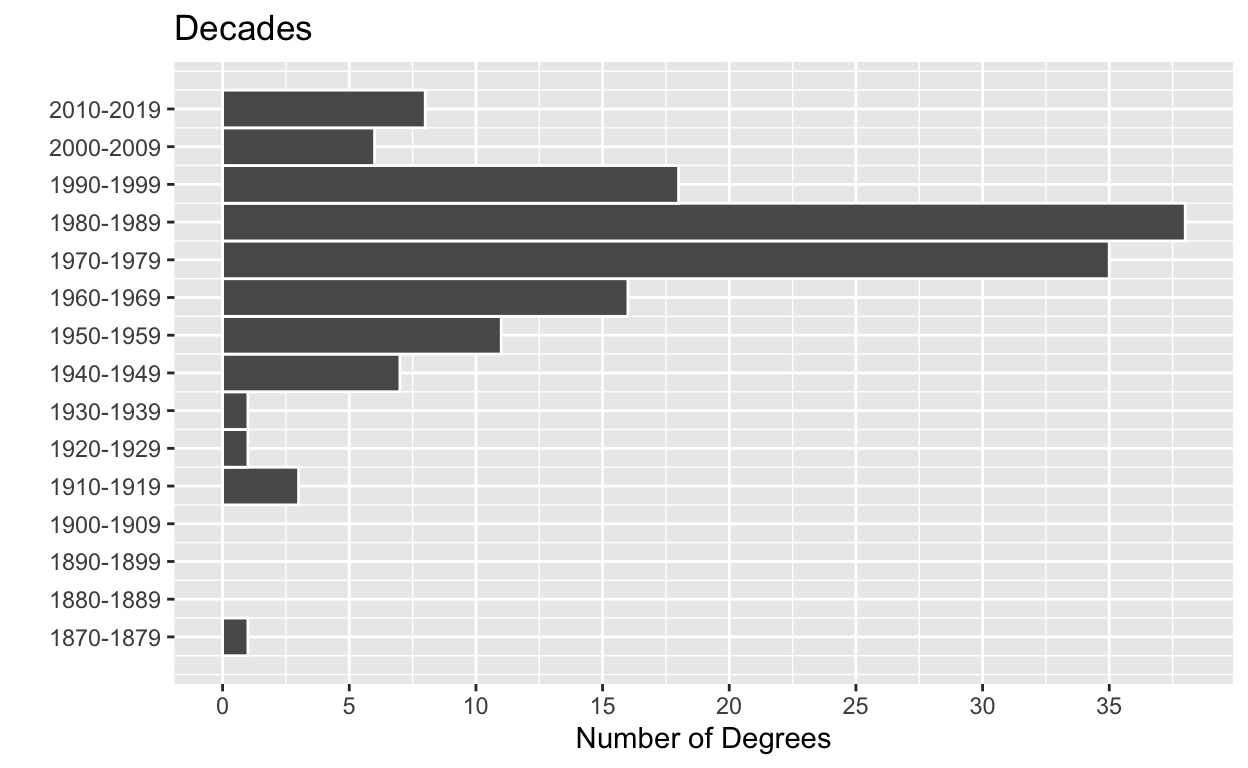
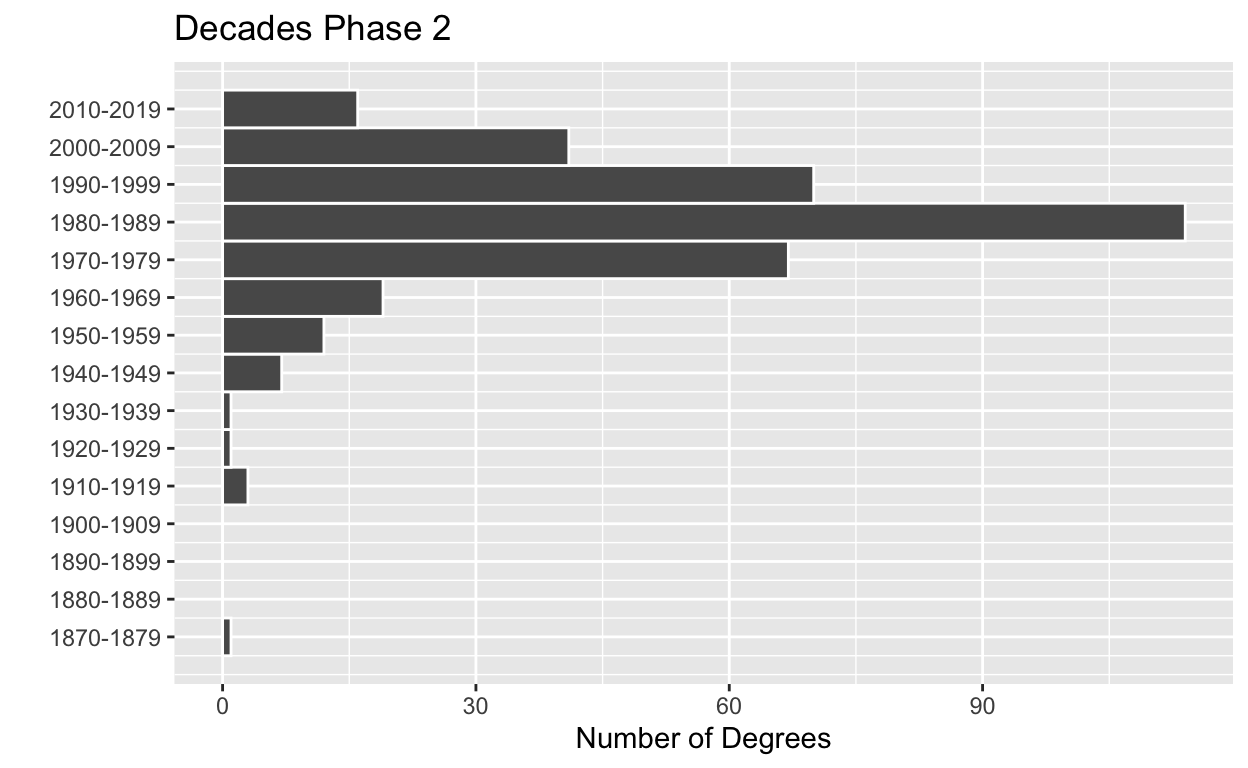
new visuals, working yml

diff --git a/docs/index.html b/docs/index.html
@@ -85,29 +85,26 @@ code span.wa { color: #5e5e5e; font-style: italic; } /* Warning */
 </style>
 
   <!--radix_placeholder_meta_tags-->
-  <title>Notable Alumni Reports: Phase 1 Report</title>
+  <title>Notable Alumni Reports: Phase 2 Report</title>
 
-  <meta property="description" itemprop="description" content="This may be easier to view than a PDF, because of the figures."/>
 
 
 
   <!--  https://developers.facebook.com/docs/sharing/webmasters#markup -->
-  <meta property="og:title" content="Notable Alumni Reports: Phase 1 Report"/>
+  <meta property="og:title" content="Notable Alumni Reports: Phase 2 Report"/>
   <meta property="og:type" content="article"/>
-  <meta property="og:description" content="This may be easier to view than a PDF, because of the figures."/>
   <meta property="og:locale" content="en_US"/>
   <meta property="og:site_name" content="Notable Alumni Reports"/>
 
   <!--  https://dev.twitter.com/cards/types/summary -->
   <meta property="twitter:card" content="summary"/>
-  <meta property="twitter:title" content="Notable Alumni Reports: Phase 1 Report"/>
-  <meta property="twitter:description" content="This may be easier to view than a PDF, because of the figures."/>
+  <meta property="twitter:title" content="Notable Alumni Reports: Phase 2 Report"/>
 
   <!--/radix_placeholder_meta_tags-->
   <!--radix_placeholder_rmarkdown_metadata-->
 
   <script type="text/json" id="radix-rmarkdown-metadata">
-  {"type":"list","attributes":{"names":{"type":"character","attributes":{},"value":["title","description","site"]}},"value":[{"type":"character","attributes":{},"value":["Phase 1 Report"]},{"type":"character","attributes":{},"value":["This may be easier to view than a PDF, because of the figures."]},{"type":"character","attributes":{},"value":["distill::distill_website"]}]}
+  {"type":"list","attributes":{"names":{"type":"character","attributes":{},"value":["title","site"]}},"value":[{"type":"character","attributes":{},"value":["Phase 2 Report"]},{"type":"character","attributes":{},"value":["distill::distill_website"]}]}
   </script>
   <!--/radix_placeholder_rmarkdown_metadata-->
   <!--radix_placeholder_navigation_in_header-->
@@ -2052,7 +2049,7 @@ code span.wa { color: #5e5e5e; font-style: italic; } /* Warning */
 <!--radix_placeholder_front_matter-->
 
 <script id="distill-front-matter" type="text/json">
-{"title":"Phase 1 Report","description":"This may be easier to view than a PDF, because of the figures.","authors":[]}
+{"title":"Phase 2 Report","authors":[]}
 </script>
 
 <!--/radix_placeholder_front_matter-->
@@ -2063,7 +2060,17 @@ code span.wa { color: #5e5e5e; font-style: italic; } /* Warning */
 <a href="index.html" class="title">Notable Alumni Reports</a>
 </div>
 <div class="nav-right">
-<a href="index.html">Phase 1 Report</a>
+<div class="nav-dropdown">
+<button class="nav-dropbtn">
+Reports
+ 
+<span class="down-arrow">&#x25BE;</span>
+</button>
+<div class="nav-dropdown-content">
+<a href="phase1.html">Phase 1 Report</a>
+<a href="index.html">Phase 2 Report</a>
+</div>
+</div>
 <a href="javascript:void(0);" class="nav-toggle">&#9776;</a>
 </div>
 </nav>
@@ -2073,10 +2080,10 @@ code span.wa { color: #5e5e5e; font-style: italic; } /* Warning */
 <!--/radix_placeholder_site_before_body-->
 
 <div class="d-title">
-<h1>Phase 1 Report</h1>
+<h1>Phase 2 Report</h1>
 <!--radix_placeholder_categories-->
 <!--/radix_placeholder_categories-->
-<p>This may be easier to view than a PDF, because of the figures.</p>
+
 </div>
 
 
@@ -2085,71 +2092,84 @@ code span.wa { color: #5e5e5e; font-style: italic; } /* Warning */
 
 </div>
 <h1 id="gender">Gender</h1>
-<p>89 entries are Male, 52 are Female, and 1, Jack F. Trope, is likely male but this has not been included because of the lack of a source.</p>
+<p>157 entries are Male, 190 are Female, and 1, Jack F. Trope, is likely male but this has not been included because of the lack of a source.</p>
 <div class="layout-chunk" data-layout="l-body">
 <p><img src="index_files/figure-html5/gender-hist-1.png" width="624" /></p>
 </div>
 <h1 id="decades">Decades</h1>
-<p>As expected, the vast majority of entries are from recent decades. The ’70s and ’80s have the most degrees. The ’50s and ’60s are comparatively lacking. It may be natural that the most recent graduates are also lacking.</p>
+<p>Compared to Phase 1, the alumni in the list have bcome more recent. Graduates from the ’80s are now far greater than those from the ’70s, and graduates from the last two decades now outnumber thos from the ’50s and ’60s.</p>
 <div class="layout-chunk" data-layout="l-body">
-<p><img src="index_files/figure-html5/decade-hist-1.png" width="624" /></p>
+<p><img src="index_files/figure-html5/decade-hist-1.png" width="624" /><img src="index_files/figure-html5/decade-hist-2.png" width="624" /></p>
 </div>
-<p>As expected, gender balance becomes more equal in later decades. It is notable, however, that females significantly outnumber males among most recent graduates.</p>
+<p>In Phase 1, women made up less thn 30% of graduates in the ’70s and ’80s. Women now slightly outnumber men in the ’80s and are slightly fewer than men in the ’70s.</p>
 <div class="layout-chunk" data-layout="l-body">
 <p><img src="index_files/figure-html5/decade-gender-1.png" width="624" /></p>
 </div>
 <h1 id="races">Races</h1>
-<p>Among all the entries, blacks outnumber other races. Among only the Micro Museum list, whites are the the greatest in number, forming about 40%.</p>
+<p>Among all the entries, whites are the greatest, forming a plurality slightly over 30%. Blacks and Hispanics are the most represented minorities, forming slightly more and less than 25% respectively.</p>
+<p>Compared to all the entries in Phase 1, the biggest change is that blacks are no longer near the majority. Also, Asians and not Hispanics were the second most represented minority, though the percentage of Asians has not changed by much between both phases.</p>
+<p>Compared to only those entries from the Micro Museum list, there are more minorities in these entires.</p>
 <div class="layout-chunk" data-layout="l-body">
 <p><img src="index_files/figure-html5/race-hists-1.png" width="624" /><img src="index_files/figure-html5/race-hists-2.png" width="624" /></p>
 </div>
-<p>Among all races, males outnumber females. The only exceptions are the races represented by a single member, American Indians and Australian Aboriginals.</p>
+<p>Among all races, except Jews and Hispanics, women outnumber men. The opposite was generally true in the Phase 1. The disparity between men and women is greatest among whites.</p>
 <div class="layout-chunk" data-layout="l-body">
 <p><img src="index_files/figure-html5/race-gender-1.png" width="624" /></p>
 </div>
 <h1 id="countries">Countries</h1>
 <p>In the Airtable, multiple countries may be listed for one entry. These include places where people are involved or born, from what I gathered from a quick reading of one source, usually Wikipedia. These countries are generally in order of precedence. The first, and so primary, country for each entry is used here.</p>
-<p>As expected, the vast majority of entries are based in the U.S. Asian countries make up the the majority of foreign locations.</p>
+<p>An even greater majority of entries are based in the U.S in this phase. Asian countries remain the most of those outside the U.S. With the exception of Australia, there is at least one entry based in every continent.</p>
 <div class="layout-chunk" data-layout="l-body">
 <p><img src="index_files/figure-html5/country-hist-1.png" width="624" /></p>
 </div>
 <h1 id="parties">Parties</h1>
-<p>40 entries have at least one party. If a person has more than one party, each is counted here. For the most part, I listed parties for those who had one displayed on Wikipedia, i.e. primarily elected officials.</p>
-<p>Democrats are the most represented party. Several of the parties listed below are for foreign countries.</p>
+<p>If a person has more than one party, each is counted here. For the most part, I listed parties for those who had one displayed on Wikipedia, i.e. primarily elected officials.</p>
+<p>The number of party members increased less than proportionally to the total number of entries, growing from 40 to 51, which may be due in part to the fact that I did not use Wikipedia as a source for all these entries. Democrats from a greater majority than they do last time. Several of the parties listed below are for foreign countries.</p>
 <div class="layout-chunk" data-layout="l-body">
 <p><img src="index_files/figure-html5/party-hist-1.png" width="624" /></p>
+<pre><code># A tibble: 51 x 8
+   name    degree   year   category       race    gender party country
+   &lt;chr&gt;   &lt;chr&gt;    &lt;chr&gt;  &lt;chr&gt;          &lt;chr&gt;   &lt;chr&gt;  &lt;chr&gt; &lt;chr&gt;  
+ 1 Casper… LL.B.    1966   Corporate / B… White   Male   R     USA    
+ 2 Kuehl,… J.D.     1978   Government     White   Female D     USA    
+ 3 Estric… J.D.     1977   Government,La… White   Female D     USA    
+ 4 Obama,… J.D.     1991   Government     Black … Male   D     USA    
+ 5 Obama,… J.D.     1988   Government     Black   Female D     USA    
+ 6 Sewell… J.D.     1992   Government     Black   Female D     USA    
+ 7 Robins… LL.M.    1968   Government     White   Female Inde… Ireland
+ 8 Nader,… LL.B.    1958   Government,Ac… White … Male   Gree… USA    
+ 9 Hauser… attende… 1955-… Public Intere… White … Female R     USA    
+10 Lynch,… J.D.     1984   Government,Co… Black   Male   D     USA    
+# … with 41 more rows</code></pre>
 </div>
-<p>Democrats are nearly equal in gender. Compared to the gender ratio among all the entries, women are overrepresented among Democrats and underrepresented among Republicans.</p>
+<p>Men are the majority of politicians. Men now form a slightly greater majority among Democrats than in Phase 1.</p>
 <div class="layout-chunk" data-layout="l-body">
 <p><img src="index_files/figure-html5/party-gender-1.png" width="624" /></p>
 </div>
-<p>Both Republicans and Democrats have comparable percentages of racial minorties, though the particular minorities differ.</p>
+<p>Minorities now make up the majority of Democrats among the entries.</p>
 <div class="layout-chunk" data-layout="l-body">
 <p><img src="index_files/figure-html5/party-race-1.png" width="624" /></p>
 </div>
 <h1 id="roles">Roles</h1>
-<p>The roles now are very rough. They have been gathered from a quick reading of one source, usually Wikipedia. There are several grey areas: the intersection of Politics, Public Interest Law, and Activist; most lawyers have at least some experience in a firm, but they do not now all have the “Law Firm” role.</p>
-<p>Among all the entries, judges outnumber other roles. Among only the Micro Museum list, “politicians” are the the greatest in number. The “Business” and “Law Firm” roles are comparatively lacking.</p>
+<p>We made changes to how we defined roles in this Phase. We replaced the Politics category with Government, with includes both elected politicians and unelected officials, e.g. cabinent members. The category also includes members of organizations such as the U.N., though such also recieve the new role “International”. The category still excludes judges, who remain in a separate “Judiciary” category.</p>
+<p>“Public Interest Law” was rennamed to “Public Interest / Nonprofit Legal Services” and now includes those who practice law for the public interest and members of think tanks and other NGOS.</p>
+<p>Authors, musicians,journalists, and commentators have all been included into one new role, “Arts / Media / Entertainment.” Media executives also recieve this role, in addition to “Corporate/Business.”</p>
+<p>Among all the entries, government is the most frequently occuring role, slightly over 30% of all roles. Corporate/Business is now as popular a role as Judges, a big increase in the former and decrease in the latter compared to Phase 1. Law Firm and Academia/Education remain smaller, but have increased more or less proportionally.</p>
 <div class="layout-chunk" data-layout="l-body">
-<p><img src="index_files/figure-html5/role-hists-1.png" width="624" /><img src="index_files/figure-html5/role-hists-2.png" width="624" /></p>
+<p><img src="index_files/figure-html5/role-hists-1.png" width="624" /></p>
 </div>
-<p>Several roles are around 60% male, which is the proportion of males among all the entries.</p>
+<p>In most roles women outnumber men, most so in Academia / Education and International. Among Law Firm, Judiciary, and Activist, men are slightly more or as many. Philanthropist is a small category which includes only men.</p>
 <div class="layout-chunk" data-layout="l-body">
 <p><img src="index_files/figure-html5/role-gender-1.png" width="624" /></p>
 </div>
 <div class="layout-chunk" data-layout="l-body">
-<p><img src="index_files/figure-html5/role-race-1.png" width="624" /></p>
+<p><img src="index_files/figure-html5/role-race-1.png" width="624" /><img src="index_files/figure-html5/role-race-2.png" width="624" /></p>
 </div>
 <h1 id="degrees">Degrees</h1>
-<p>As expected, the majority of degrees earned are J.Ds.</p>
 <div class="layout-chunk" data-layout="l-body">
 <p><img src="index_files/figure-html5/degree-hist-1.png" width="624" /></p>
 </div>
-<p>There is some but not much overlap between when LL.Bs and J.Ds are earned. No LL.Bs are earned after the ’60s and a few J.Ds are held by those who graduated even as early as the ’40s.</p>
-<div class="layout-chunk" data-layout="l-body">
-<p><img src="index_files/figure-html5/degree-decade-1.png" width="624" /></p>
-</div>
-<div class="sourceCode" id="cb1"><pre class="sourceCode r distill-force-highlighting-css"><code class="sourceCode r"></code></pre></div>
+<div class="sourceCode" id="cb2"><pre class="sourceCode r distill-force-highlighting-css"><code class="sourceCode r"></code></pre></div>
 <!--radix_placeholder_article_footer-->
 <!--/radix_placeholder_article_footer-->
 </div>

diff --git a/docs/phase2.html b/docs/phase2.html
@@ -85,29 +85,26 @@ code span.wa { color: #5e5e5e; font-style: italic; } /* Warning */
 </style>
 
   <!--radix_placeholder_meta_tags-->
-  <title>Notable Alumni Reports: Phase 1 Report</title>
+  <title>Notable Alumni Reports: Phase 2 Report</title>
 
-  <meta property="description" itemprop="description" content="This may be easier to view than a PDF, because of the figures."/>
 
 
 
   <!--  https://developers.facebook.com/docs/sharing/webmasters#markup -->
-  <meta property="og:title" content="Notable Alumni Reports: Phase 1 Report"/>
+  <meta property="og:title" content="Notable Alumni Reports: Phase 2 Report"/>
   <meta property="og:type" content="article"/>
-  <meta property="og:description" content="This may be easier to view than a PDF, because of the figures."/>
   <meta property="og:locale" content="en_US"/>
   <meta property="og:site_name" content="Notable Alumni Reports"/>
 
   <!--  https://dev.twitter.com/cards/types/summary -->
   <meta property="twitter:card" content="summary"/>
-  <meta property="twitter:title" content="Notable Alumni Reports: Phase 1 Report"/>
-  <meta property="twitter:description" content="This may be easier to view than a PDF, because of the figures."/>
+  <meta property="twitter:title" content="Notable Alumni Reports: Phase 2 Report"/>
 
   <!--/radix_placeholder_meta_tags-->
   <!--radix_placeholder_rmarkdown_metadata-->
 
   <script type="text/json" id="radix-rmarkdown-metadata">
-  {"type":"list","attributes":{"names":{"type":"character","attributes":{},"value":["title","description","site"]}},"value":[{"type":"character","attributes":{},"value":["Phase 1 Report"]},{"type":"character","attributes":{},"value":["This may be easier to view than a PDF, because of the figures."]},{"type":"character","attributes":{},"value":["distill::distill_website"]}]}
+  {"type":"list","attributes":{"names":{"type":"character","attributes":{},"value":["title","site"]}},"value":[{"type":"character","attributes":{},"value":["Phase 2 Report"]},{"type":"character","attributes":{},"value":["distill::distill_website"]}]}
   </script>
   <!--/radix_placeholder_rmarkdown_metadata-->
   <!--radix_placeholder_navigation_in_header-->
@@ -2052,7 +2049,7 @@ code span.wa { color: #5e5e5e; font-style: italic; } /* Warning */
 <!--radix_placeholder_front_matter-->
 
 <script id="distill-front-matter" type="text/json">
-{"title":"Phase 1 Report","description":"This may be easier to view than a PDF, because of the figures.","authors":[]}
+{"title":"Phase 2 Report","authors":[]}
 </script>
 
 <!--/radix_placeholder_front_matter-->
@@ -2083,10 +2080,10 @@ Reports
 <!--/radix_placeholder_site_before_body-->
 
 <div class="d-title">
-<h1>Phase 1 Report</h1>
+<h1>Phase 2 Report</h1>
 <!--radix_placeholder_categories-->
 <!--/radix_placeholder_categories-->
-<p>This may be easier to view than a PDF, because of the figures.</p>
+
 </div>
 
 
@@ -2095,69 +2092,68 @@ Reports
 
 </div>
 <h1 id="gender">Gender</h1>
-<p>89 entries are Male, 52 are Female, and 1, Jack F. Trope, is likely male but this has not been included because of the lack of a source.</p>
+<p>157 entries are Male, 190 are Female, and 1, Jack F. Trope, is likely male but this has not been included because of the lack of a source.</p>
 <div class="layout-chunk" data-layout="l-body">
-<p><img src="phase1_files/figure-html5/gender-hist-1.png" width="624" /></p>
+<p><img src="phase2_files/figure-html5/gender-hist-1.png" width="624" /></p>
 </div>
 <h1 id="decades">Decades</h1>
-<p>As expected, the vast majority of entries are from recent decades. The ’70s and ’80s have the most degrees. The ’50s and ’60s are comparatively lacking. It may be natural that the most recent graduates are also lacking.</p>
-<div class="layout-chunk" data-layout="l-body">
-<p><img src="phase1_files/figure-html5/decade-hist-1.png" width="624" /></p>
+<p>Compared to Phase 1, the alumni in the list have bcome more recent. Graduates from the ’80s are now far greater than those from the ’70s, and graduates from the last two decades now outnumber thos from the ’50s and ’60s.</p>
+<div class="layout-chunk" data-layout="l-body-outset">
+<p><img src="phase2_files/figure-html5/decade-hist-1.png" width="768" /><img src="phase2_files/figure-html5/decade-hist-2.png" width="768" /></p>
 </div>
-<p>As expected, gender balance becomes more equal in later decades. It is notable, however, that females significantly outnumber males among most recent graduates.</p>
+<p>In Phase 1, women made up less thn 30% of graduates in the ’70s and ’80s. Women now slightly outnumber men in the ’80s and are slightly fewer than men in the ’70s.</p>
 <div class="layout-chunk" data-layout="l-body">
-<p><img src="phase1_files/figure-html5/decade-gender-1.png" width="624" /></p>
+<p><img src="phase2_files/figure-html5/decade-gender-1.png" width="624" /></p>
 </div>
 <h1 id="races">Races</h1>
-<p>Among all the entries, blacks outnumber other races. Among only the Micro Museum list, whites are the the greatest in number, forming about 40%.</p>
+<p>Among all the entries, whites are the greatest, forming a plurality slightly over 30%. Blacks and Hispanics are the most represented minorities, forming slightly more and less than 25% respectively.</p>
+<p>Compared to all the entries in Phase 1, the biggest change is that blacks are no longer near the majority. Also, Asians and not Hispanics were the second most represented minority, though the percentage of Asians has not changed by much between both phases.</p>
+<p>Compared to only those entries from the Micro Museum list, there are more minorities in these entires.</p>
 <div class="layout-chunk" data-layout="l-body">
-<p><img src="phase1_files/figure-html5/race-hists-1.png" width="624" /><img src="phase1_files/figure-html5/race-hists-2.png" width="624" /></p>
+<p><img src="phase2_files/figure-html5/race-hists-1.png" width="624" /><img src="phase2_files/figure-html5/race-hists-2.png" width="624" /></p>
 </div>
-<p>Among all races, males outnumber females. The only exceptions are the races represented by a single member, American Indians and Australian Aboriginals.</p>
+<p>Among all races, except Jews and Hispanics, women outnumber men. The opposite was generally true in the Phase 1. The disparity between men and women is greatest among whites.</p>
 <div class="layout-chunk" data-layout="l-body">
-<p><img src="phase1_files/figure-html5/race-gender-1.png" width="624" /></p>
+<p><img src="phase2_files/figure-html5/race-gender-1.png" width="624" /></p>
 </div>
 <h1 id="countries">Countries</h1>
 <p>In the Airtable, multiple countries may be listed for one entry. These include places where people are involved or born, from what I gathered from a quick reading of one source, usually Wikipedia. These countries are generally in order of precedence. The first, and so primary, country for each entry is used here.</p>
-<p>As expected, the vast majority of entries are based in the U.S. Asian countries make up the the majority of foreign locations.</p>
+<p>An even greater majority of entries are based in the U.S in this phase. Asian countries remain the most of those outside the U.S. With the exception of Australia, there is at least one entry based in every continent.</p>
 <div class="layout-chunk" data-layout="l-body">
-<p><img src="phase1_files/figure-html5/country-hist-1.png" width="624" /></p>
+<p><img src="phase2_files/figure-html5/country-hist-1.png" width="624" /></p>
 </div>
 <h1 id="parties">Parties</h1>
-<p>40 entries have at least one party. If a person has more than one party, each is counted here. For the most part, I listed parties for those who had one displayed on Wikipedia, i.e. primarily elected officials.</p>
-<p>Democrats are the most represented party. Several of the parties listed below are for foreign countries.</p>
+<p>If a person has more than one party, each is counted here. For the most part, I listed parties for those who had one displayed on Wikipedia, i.e. primarily elected officials.</p>
+<p>The number of party members increased less than proportionally to the total number of entries, growing from 40 to 51, which may be due in part to the fact that I did not use Wikipedia as a source for all these entries. Democrats from a greater majority than they do last time. Several of the parties listed below are for foreign countries.</p>
 <div class="layout-chunk" data-layout="l-body">
-<p><img src="phase1_files/figure-html5/party-hist-1.png" width="624" /></p>
+<p><img src="phase2_files/figure-html5/party-hist-1.png" width="624" /></p>
 </div>
-<p>Democrats are nearly equal in gender. Compared to the gender ratio among all the entries, women are overrepresented among Democrats and underrepresented among Republicans.</p>
+<p>Men are the majority of politicians. Men now form a slightly greater majority among Democrats than in Phase 1.</p>
 <div class="layout-chunk" data-layout="l-body">
-<p><img src="phase1_files/figure-html5/party-gender-1.png" width="624" /></p>
+<p><img src="phase2_files/figure-html5/party-gender-1.png" width="624" /></p>
 </div>
-<p>Both Republicans and Democrats have comparable percentages of racial minorties, though the particular minorities differ.</p>
+<p>Minorities now make up the majority of Democrats among the entries.</p>
 <div class="layout-chunk" data-layout="l-body">
-<p><img src="phase1_files/figure-html5/party-race-1.png" width="624" /></p>
+<p><img src="phase2_files/figure-html5/party-race-1.png" width="624" /></p>
 </div>
 <h1 id="roles">Roles</h1>
-<p>The roles now are very rough. They have been gathered from a quick reading of one source, usually Wikipedia. There are several grey areas: the intersection of Politics, Public Interest Law, and Activist; most lawyers have at least some experience in a firm, but they do not now all have the “Law Firm” role.</p>
-<p>Among all the entries, judges outnumber other roles. Among only the Micro Museum list, “politicians” are the the greatest in number. The “Business” and “Law Firm” roles are comparatively lacking.</p>
-<div class="layout-chunk" data-layout="l-body">
-<p><img src="phase1_files/figure-html5/role-hists-1.png" width="624" /><img src="phase1_files/figure-html5/role-hists-2.png" width="624" /></p>
+<p>We made changes to how we defined roles in this Phase. We replaced the Politics category with Government, with includes both elected politicians and unelected officials, e.g. cabinent members. The category also includes members of organizations such as the U.N., though such also recieve the new role “International”. The category still excludes judges, who remain in a separate “Judiciary” category.</p>
+<p>“Public Interest Law” was rennamed to “Public Interest / Nonprofit Legal Services” and now includes those who practice law for the public interest and members of think tanks and other NGOS.</p>
+<p>Authors, musicians,journalists, and commentators have all been included into one new role, “Arts / Media / Entertainment.” Media executives also recieve this role, in addition to “Corporate/Business.”</p>
+<p>Among all the entries, government is the most frequently occuring role, slightly over 30% of all roles. Corporate/Business is now as popular a role as Judges, a big increase in the former and decrease in the latter compared to Phase 1. Law Firm and Academia/Education remain smaller, but have increased more or less proportionally.</p>
+<div class="layout-chunk" data-layout="l-body-outset">
+<p><img src="phase2_files/figure-html5/role-hists-1.png" width="768" /></p>
 </div>
-<p>Several roles are around 60% male, which is the proportion of males among all the entries.</p>
-<div class="layout-chunk" data-layout="l-body">
-<p><img src="phase1_files/figure-html5/role-gender-1.png" width="624" /></p>
+<p>In most roles women outnumber men, most so in Academia / Education and International. Among Law Firm, Judiciary, and Activist, men are slightly more or as many. Philanthropist is a small category which includes only men.</p>
+<div class="layout-chunk" data-layout="l-body-outset">
+<p><img src="phase2_files/figure-html5/role-gender-1.png" width="768" /></p>
 </div>
-<div class="layout-chunk" data-layout="l-body">
-<p><img src="phase1_files/figure-html5/role-race-1.png" width="624" /></p>
+<div class="layout-chunk" data-layout="l-body-outset">
+<p><img src="phase2_files/figure-html5/role-race-1.png" width="768" /></p>
 </div>
 <h1 id="degrees">Degrees</h1>
-<p>As expected, the majority of degrees earned are J.Ds.</p>
 <div class="layout-chunk" data-layout="l-body">
-<p><img src="phase1_files/figure-html5/degree-hist-1.png" width="624" /></p>
-</div>
-<p>There is some but not much overlap between when LL.Bs and J.Ds are earned. No LL.Bs are earned after the ’60s and a few J.Ds are held by those who graduated even as early as the ’40s.</p>
-<div class="layout-chunk" data-layout="l-body">
-<p><img src="phase1_files/figure-html5/degree-decade-1.png" width="624" /></p>
+<p><img src="phase2_files/figure-html5/degree-hist-1.png" width="624" /></p>
 </div>
 <div class="sourceCode" id="cb1"><pre class="sourceCode r distill-force-highlighting-css"><code class="sourceCode r"></code></pre></div>
 <!--radix_placeholder_article_footer-->
